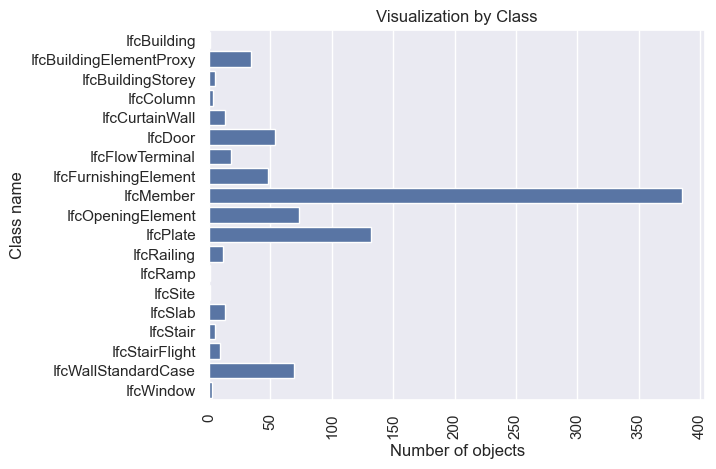
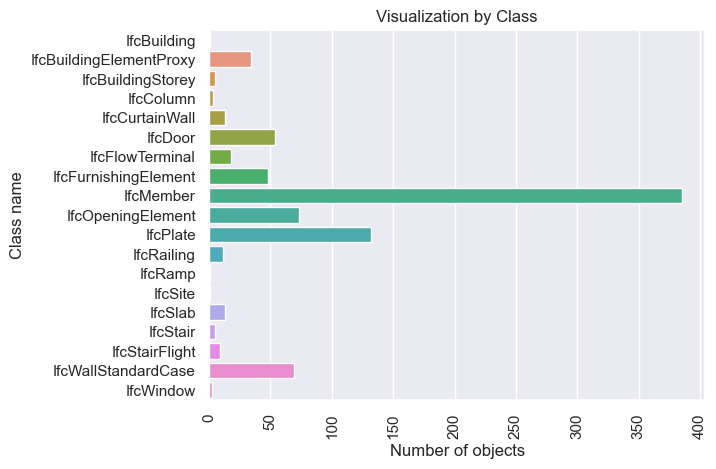
update readme

Changed region(s): [[0.2765, 0.0896, 0.9525, 0.5672], [0.2765, 0.6567, 0.4302, 0.806]]

diff --git a/README.md b/README.md
@@ -55,7 +55,27 @@ with pd.ExcelWriter(file_name, engine='openpyxl') as writer:
             worksheet.column_dimensions[col[0].column_letter].width = 20
 ```
 
+Visualize data use seaborn and matplotlib
+
+```py
+import matplotlib.pyplot as plt
+import seaborn as sns
+sns.set_theme(style="darkgrid")
+# visualize data df dictionary, y is class name, x is number of objects
+sns.barplot(y=list(df.keys()), x=[len(df[key]) for key in df.keys()])
+plt.xticks(rotation=90)
+plt.ylabel("Class name")
+plt.xlabel("Number of objects")
+plt.title("Visualization by Class")
+plt.show()
+```
 ![](docs/output.png)
+
+## Sample Files 
+
+- [IFC_To_Excel.ipynb](./IFC_To_Excel.ipynb) - Demo convert data from IFC to Excel
+- [Result.xlsx](./Result.xlsx) - Result file after convert
+
 
 ## CopyRight
 
